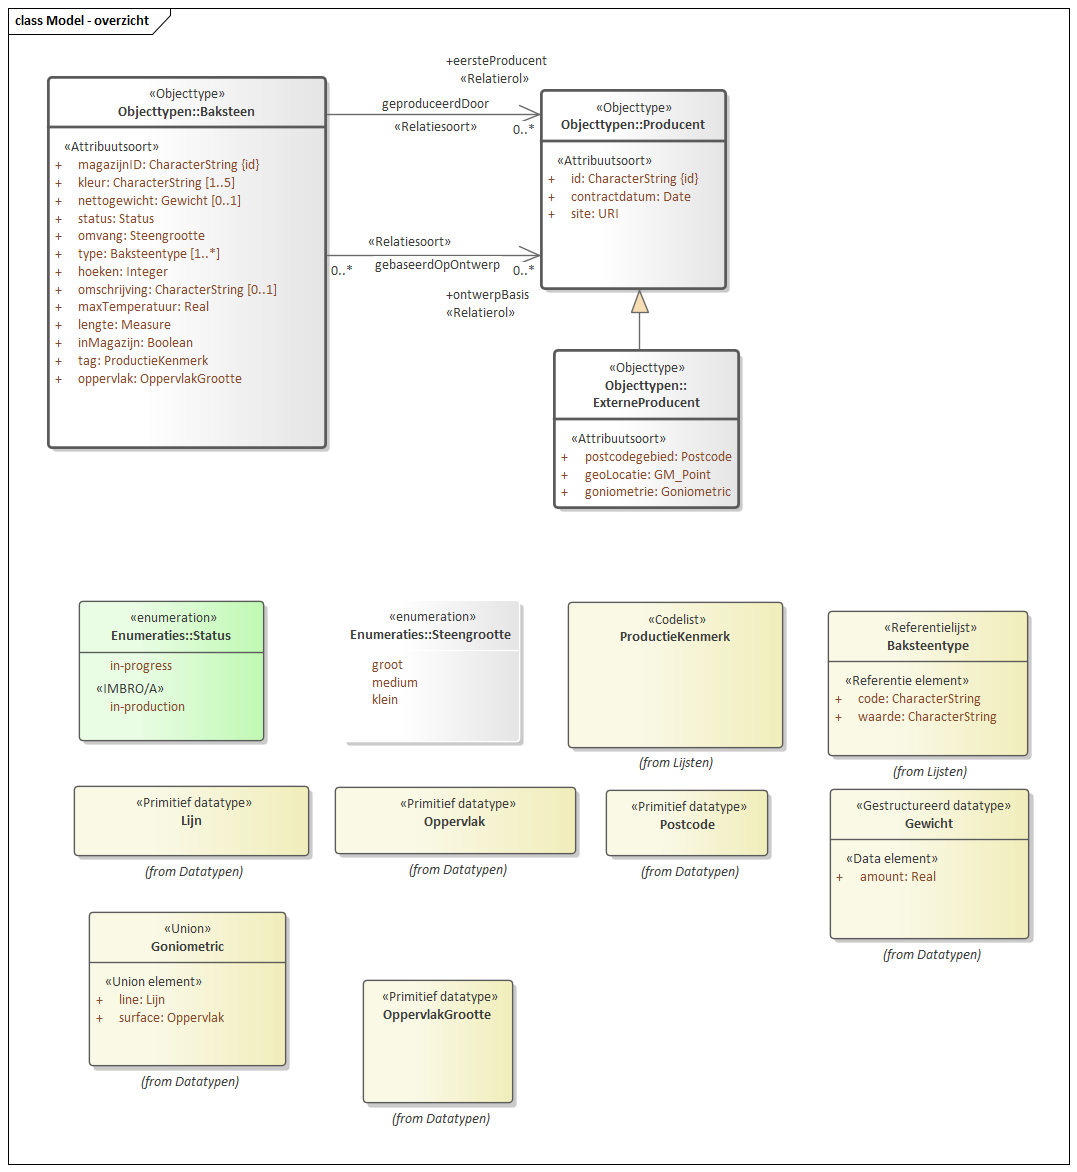
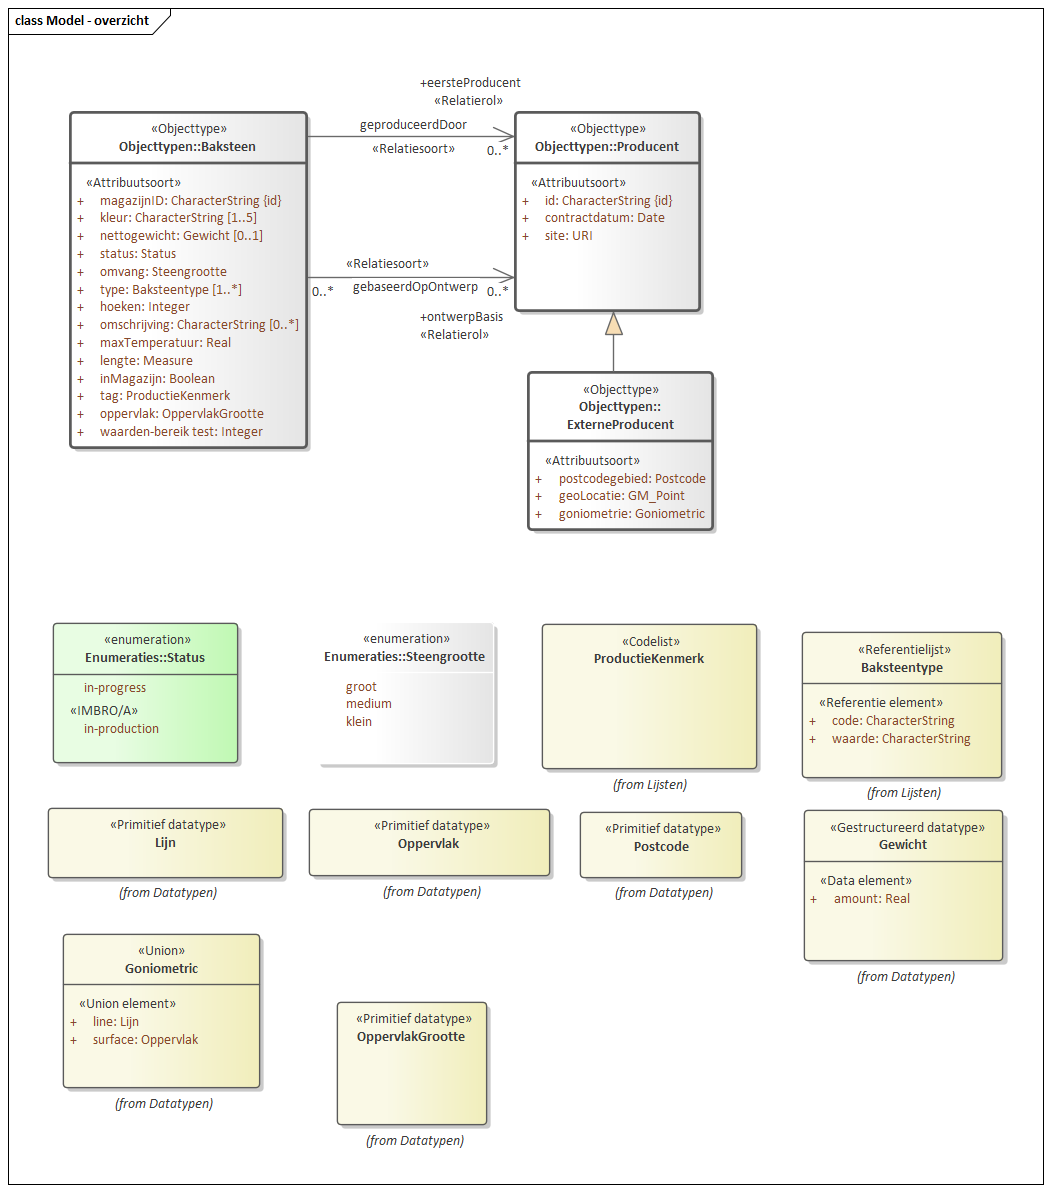
MIMCM-Bakstenenconceptueelmodel-1.0.0-2-20130318-20210520-112625

diff --git a/data/SAMPLE-cat.respec.html b/data/SAMPLE-cat.respec.html
@@ -1,7 +1,7 @@
 
 <!DOCTYPE HTML><section id="cat" class="normative">
    <h2>Gegevensdefinitie</h2>
-   <!--MIMCM-Bakstenenconceptueelmodel-1.0.0-2-20130318-20210506-100239 imvertor 1.64.2--><a class="anchor" id="global_d14517e1"></a><section id="global_d14517e1">
+   <!--MIMCM-Bakstenenconceptueelmodel-1.0.0-2-20130318-20210520-112625 imvertor 1.64.2--><a class="anchor" id="global_d21668e1"></a><section id="global_d21668e1">
       <h3>Model   Bakstenen conceptueel model</h3>
       <section id="EAID_08513AA0_8A50_46c1_AD86_9B80D9A6AAE1">
          <h4>[TODO: IMAGE]   Model - overzicht</h4>
@@ -12,7 +12,7 @@
       <h3>Domein   Baksteen productie</h3>
       <section id="EAID_84CEDDF3_6992_489f_A4EE_319145DE4118">
          <h4>[TODO: IMAGE]   Model - overzicht</h4>
-         <div class="imageinfo overview"><img src="data/Images/EAID_84CEDDF3_6992_489f_A4EE_319145DE4118.png" usemap="#imagemap-EAID_84CEDDF3_6992_489f_A4EE_319145DE4118" alt="Diagram Overzicht van alle constructies in dit model voor bakstenen en hun producenten."><map name="imagemap-EAID_84CEDDF3_6992_489f_A4EE_319145DE4118"><area shape="rect" alt="Gewicht" coords="830,789,1029,939" href="#graph_EAID_11FD40A5_BE06_452a_9307_B5B5155E0EA4"><area shape="rect" alt="Baksteentype Baksteentype" coords="828,611,1028,756" href="#graph_EAID_705E4D02_09C2_4812_AA1F_D80E12C89EE0"><area shape="rect" alt="Steengrootte" coords="342,600,520,742" href="#graph_EAID_65363897_E229_41fd_BE6F_E6B1BACAD458"><area shape="rect" alt="Status" coords="79,601,264,741" href="#graph_EAID_E86D21EE_58FD_4975_9CCB_AFF2434704A8"><area shape="rect" alt="Goniometric" coords="89,912,286,1066" href="#graph_EAID_22DF50AD_91EB_4db3_AA33_D5C2CE2FB906"><area shape="rect" alt="ExterneProducent" coords="554,350,739,508" href="#graph_EAID_E2C93214_90E2_4151_B719_7BB8CDF8679F"><area shape="rect" alt="Baksteen" coords="48,77,326,448" href="#graph_EAID_CF7C4448_E50C_4c7a_B1D0_C4FCB2EB1814"><area shape="rect" alt="ProductieKenmerk" coords="568,602,783,748" href="#graph_EAID_4D78F0AD_88ED_44ef_9A76_163426CD74D1"><area shape="rect" alt="Producent" coords="541,90,726,289" href="#graph_EAID_04EED45C_4D30_41b9_83EE_65237E1F8E27"><area shape="rect" alt="OppervlakGrootte" coords="363,980,513,1103" href="#graph_EAID_8D034A6D_37F7_4765_9CFF_FE3DF59A8340"></map><p><b>Model - overzicht</b> — Overzicht van alle constructies in dit model voor bakstenen en hun producenten.</p>
+         <div class="imageinfo overview"><img src="data/Images/EAID_84CEDDF3_6992_489f_A4EE_319145DE4118.png" usemap="#imagemap-EAID_84CEDDF3_6992_489f_A4EE_319145DE4118" alt="Diagram Overzicht van alle constructies in dit model voor bakstenen en hun producenten."><map name="imagemap-EAID_84CEDDF3_6992_489f_A4EE_319145DE4118"><area shape="rect" alt="Gewicht" coords="804,810,1003,961" href="#graph_EAID_11FD40A5_BE06_452a_9307_B5B5155E0EA4"><area shape="rect" alt="Baksteentype Baksteentype" coords="802,632,1002,778" href="#graph_EAID_705E4D02_09C2_4812_AA1F_D80E12C89EE0"><area shape="rect" alt="Steengrootte" coords="316,622,494,764" href="#graph_EAID_65363897_E229_41fd_BE6F_E6B1BACAD458"><area shape="rect" alt="Status" coords="53,623,238,763" href="#graph_EAID_E86D21EE_58FD_4975_9CCB_AFF2434704A8"><area shape="rect" alt="Goniometric" coords="63,934,260,1088" href="#graph_EAID_22DF50AD_91EB_4db3_AA33_D5C2CE2FB906"><area shape="rect" alt="ExterneProducent" coords="528,372,713,530" href="#graph_EAID_E2C93214_90E2_4151_B719_7BB8CDF8679F"><area shape="rect" alt="Baksteen" coords="70,112,307,448" href="#graph_EAID_CF7C4448_E50C_4c7a_B1D0_C4FCB2EB1814"><area shape="rect" alt="ProductieKenmerk" coords="542,624,757,769" href="#graph_EAID_4D78F0AD_88ED_44ef_9A76_163426CD74D1"><area shape="rect" alt="Producent" coords="515,112,700,311" href="#graph_EAID_04EED45C_4D30_41b9_83EE_65237E1F8E27"><area shape="rect" alt="OppervlakGrootte" coords="337,1002,487,1125" href="#graph_EAID_8D034A6D_37F7_4765_9CFF_FE3DF59A8340"></map><p><b>Model - overzicht</b> — Overzicht van alle constructies in dit model voor bakstenen en hun producenten.</p>
          </div>
       </section>
       <section id="">
@@ -22,7 +22,7 @@
             
             <section id="EAID_EB759E5B_3FAA_4064_A73E_704926072F89">
                <h6>[TODO: IMAGE]   Baksteen - detail</h6>
-               <div class="imageinfo "><img src="data/Images/EAID_EB759E5B_3FAA_4064_A73E_704926072F89.png" usemap="#imagemap-EAID_EB759E5B_3FAA_4064_A73E_704926072F89" alt="Diagram Gedetailleerde informatie over Baksteen objectttype, inclusief traces."><map name="imagemap-EAID_EB759E5B_3FAA_4064_A73E_704926072F89"><area shape="rect" alt="Producent" coords="289,68,446,208" href="#graph_EAID_04EED45C_4D30_41b9_83EE_65237E1F8E27"><area shape="rect" alt="Baksteen" coords="268,324,511,642" href="#graph_EAID_CF7C4448_E50C_4c7a_B1D0_C4FCB2EB1814"></map><p><b>Baksteen - detail</b> — Gedetailleerde informatie over Baksteen objectttype, inclusief traces.</p>
+               <div class="imageinfo "><img src="data/Images/EAID_EB759E5B_3FAA_4064_A73E_704926072F89.png" usemap="#imagemap-EAID_EB759E5B_3FAA_4064_A73E_704926072F89" alt="Diagram Gedetailleerde informatie over Baksteen objectttype, inclusief traces."><map name="imagemap-EAID_EB759E5B_3FAA_4064_A73E_704926072F89"><area shape="rect" alt="Producent" coords="164,59,322,199" href="#graph_EAID_04EED45C_4D30_41b9_83EE_65237E1F8E27"><area shape="rect" alt="Baksteen" coords="144,315,386,650" href="#graph_EAID_CF7C4448_E50C_4c7a_B1D0_C4FCB2EB1814"></map><p><b>Baksteen - detail</b> — Gedetailleerde informatie over Baksteen objectttype, inclusief traces.</p>
                </div>
             </section>
             
@@ -166,7 +166,7 @@
                      <td>
                         CHARACTERSTRING
                         </td>
-                     <td>0 .. 1</td>
+                     <td>0 .. *</td>
                   </tr>
                   <tr>
                      <td>
@@ -230,6 +230,16 @@
                         </td>
                      <td>
                         <a class="link" href="#global_class_BaksteenProductie_OppervlakGrootte">OppervlakGrootte</a>
+                        </td>
+                     <td>1</td>
+                  </tr>
+                  <tr>
+                     <td>
+                        <a class="link" href="#detail_attribute_BaksteenProductie_Baksteen_waardenBereikTest">waarden-bereik test</a>
+                        </td>
+                     <td></td>
+                     <td>
+                        Integer
                         </td>
                      <td>1</td>
                   </tr>
@@ -1101,7 +1111,7 @@
                         </tr>
                         <tr>
                            <th>Kardinaliteit</th>
-                           <td>0 .. 1</td>
+                           <td>0 .. *</td>
                         </tr>
                         <tr>
                            <th>Type</th>
@@ -1309,6 +1319,40 @@
                         <tr>
                            <th>Type</th>
                            <td>OppervlakGrootte</td>
+                        </tr>
+                        <tr>
+                           <th>Indicatie afleidbaar</th>
+                           <td>Zie package</td>
+                        </tr>
+                     </tbody>
+                  </table>
+                  </div>
+               <a class="anchor" id="detail_attribute_BaksteenProductie_Baksteen_waardenBereikTest"></a><div class="deepheader" id="detail_attribute_BaksteenProductie_Baksteen_waardenBereikTest">
+                  <h7>  <a href="#global_class_BaksteenProductie_Baksteen">Baksteen</a> waarden-bereik test</h7>
+                  
+                  <table style="width: 100%;">
+                     <colgroup style="width: 30%;"></colgroup>
+                     <colgroup style="width: 70%;"></colgroup>
+                     <tbody>
+                        <tr>
+                           <th>Naam</th>
+                           <td>waarden-bereik test</td>
+                        </tr>
+                        <tr>
+                           <th>Mogelijk geen waarde</th>
+                           <td>Nee</td>
+                        </tr>
+                        <tr>
+                           <th>Kardinaliteit</th>
+                           <td>1</td>
+                        </tr>
+                        <tr>
+                           <th>Indicatie authentiek</th>
+                           <td>Authentiek</td>
+                        </tr>
+                        <tr>
+                           <th>Type</th>
+                           <td>Integer</td>
                         </tr>
                         <tr>
                            <th>Indicatie afleidbaar</th>
@@ -2447,7 +2491,7 @@
 </section>
 <section id="lis" class="normative">
    <h2>Inhoud van waardenlijsten</h2>
-   <!--MIMCM-Bakstenenconceptueelmodel-1.0.0-2-20130318-20210506-100239 imvertor 1.64.2-->
+   <!--MIMCM-Bakstenenconceptueelmodel-1.0.0-2-20130318-20210520-112625 imvertor 1.64.2-->
    <section id="">
       <h3>   </h3><a class="anchor" id="graph_EAID_705E4D02_09C2_4812_AA1F_D80E12C89EE0"></a><a class="anchor" id="detail_class_BaksteenProductie_Baksteentype"></a><section id="detail_class_BaksteenProductie_Baksteentype">
          <h4>  Baksteentype</h4>
